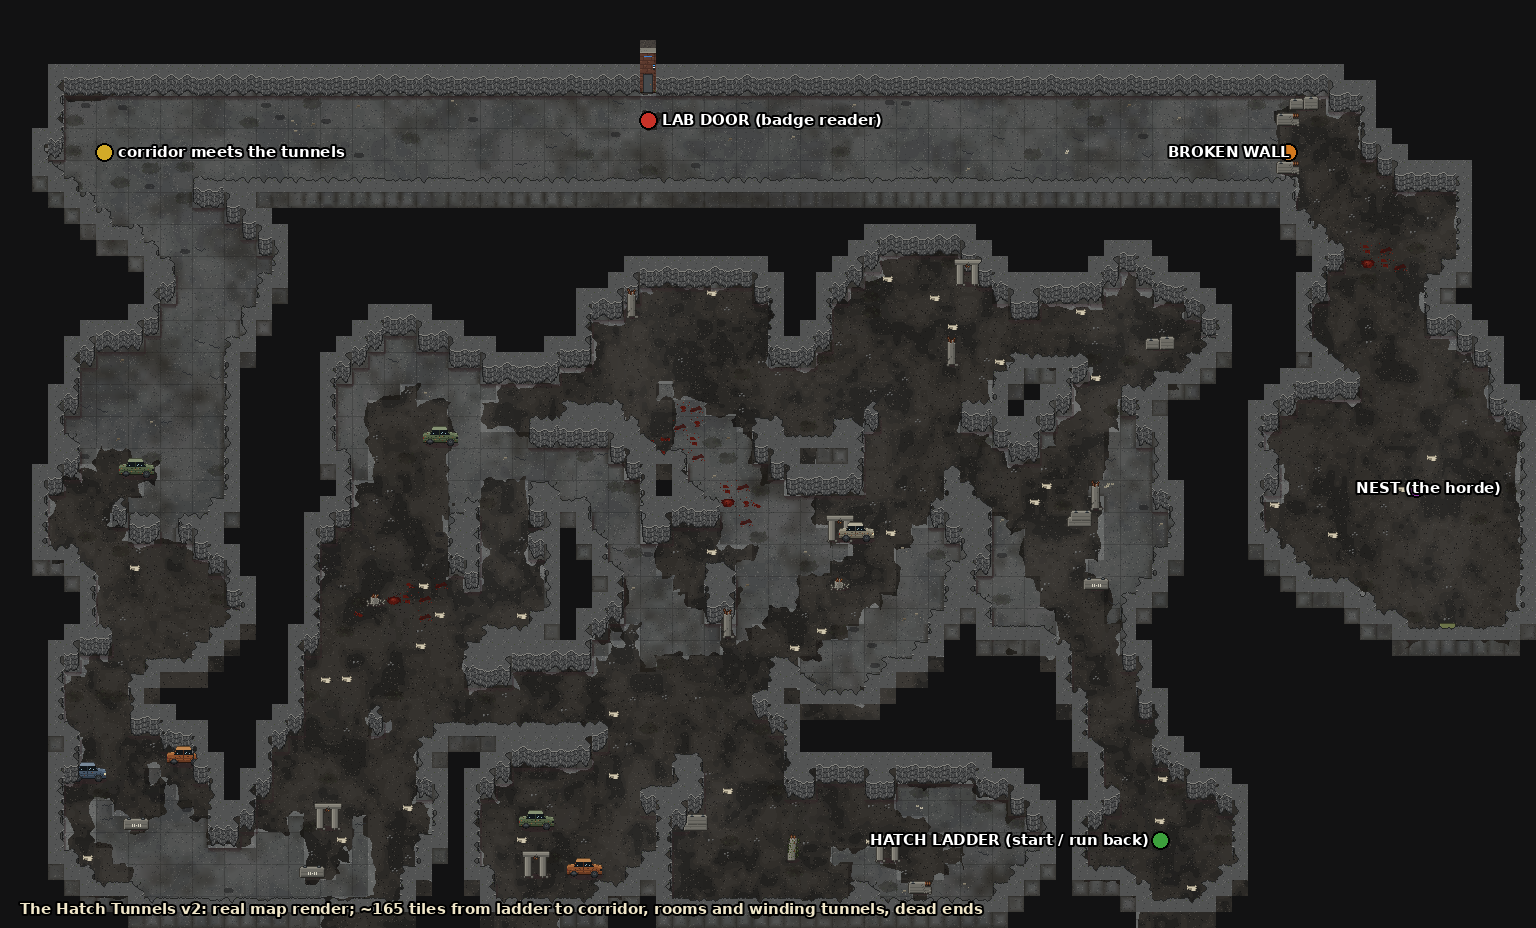
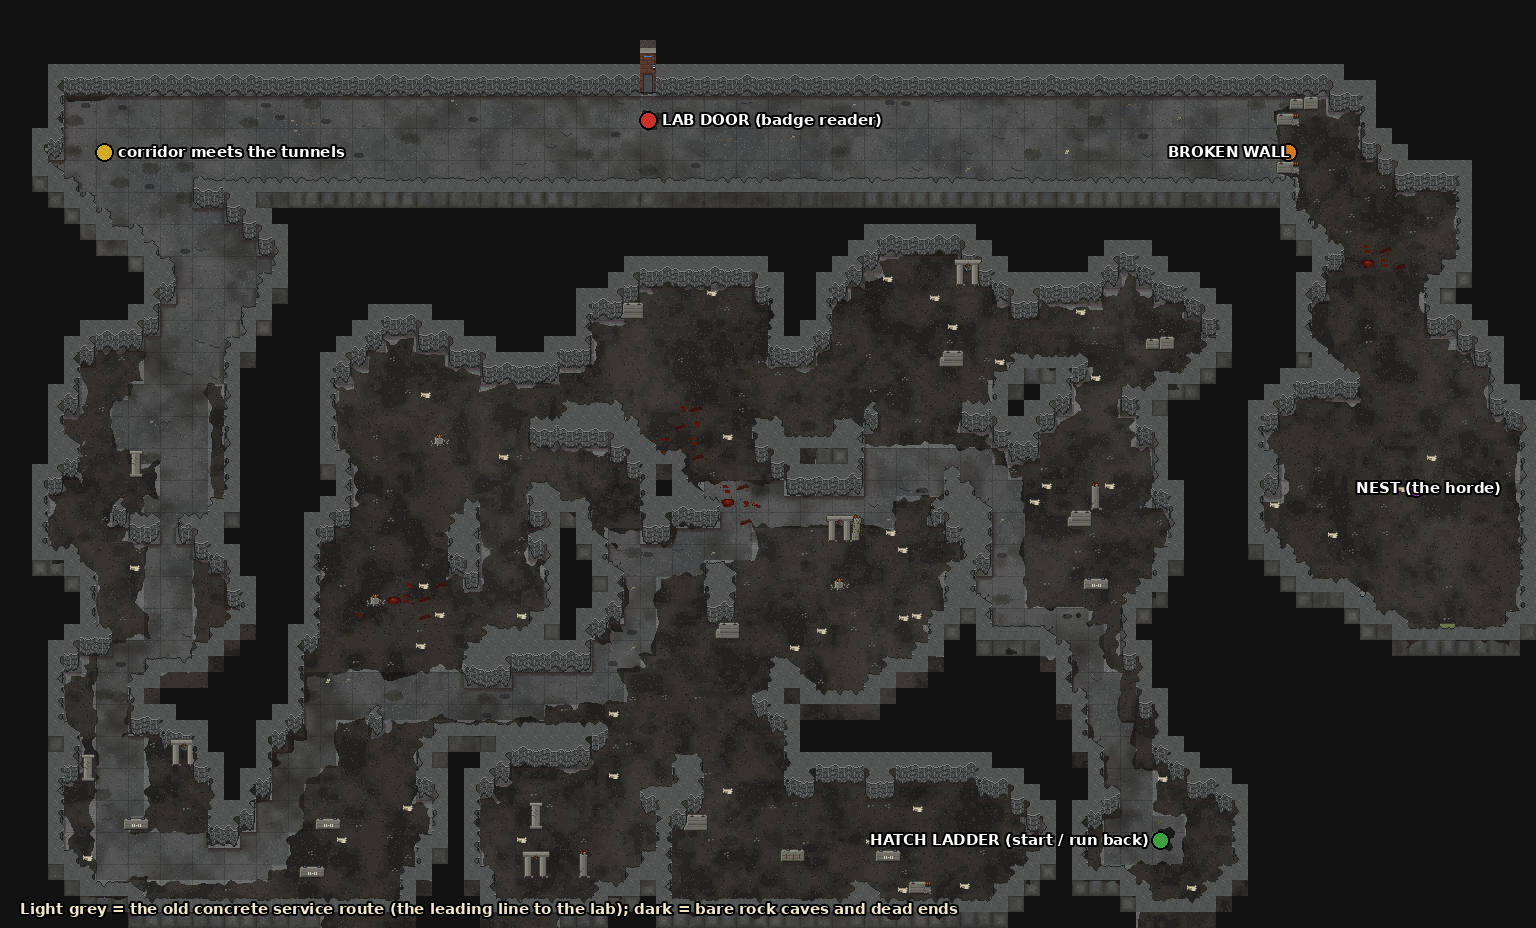
Taken: concrete service route as the guide, a hint, a second auto-save at the door
Claude-Session: https://claude.ai/code/session_01Jpd5tdDJTR7BVueAYV1KDM

diff --git a/Assets/Scripts/GameCore/TierDungeons.TakenPlan.cs b/Assets/Scripts/GameCore/TierDungeons.TakenPlan.cs
@@ -30,42 +30,42 @@ namespace GameCore
             "###########,,,,,########################.......######.........#######...###########......#######",
             "##########,,,,,,#######################h........####...........##.........########.......#######",
             "##########,,,,,######################...........####.......................#######.......#######",
-            "#########,,,,,,#########,,###########...........####....................h...######.........#####",
-            "######,,,,,,,,#########,,,,,#########...........###........h...............########.........####",
-            "#####,,,,,,,,,########,,,,,,,,#####............................#####......##########.........###",
-            "#####,,,,,,,,,#######,,,,.,,,,,..........,....................#####.....#############........###",
-            "#####,,,,,,,,,#######,,.....,,............,,..................#####...###########............###",
-            "####,,,,,,,,,,#######,,.....,,.....####...,,,,........#.....######....,#########..............##",
-            "####,,,,,,,,,,#######,,....+,,,,,#######..,,,,,##...##........###,...,,########................#",
-            "#####,..,,,,,,#######,,.....,,,,,,,,,,###.,,,,,#######.........##....,,,#######................#",
-            "#####...+.,,,,########,.....,,,,,,,,,,,####,,,,,######...............,,,########...............#",
-            "####.....,,,,,########......,,...,,,,,,,###,,,,,,#####.....#........,,,,########........H......#",
-            "###.....,,,,,,########......,,...##,,,,,####,,,,,,,........##.......+,,,#######................#",
-            "###....#,,,,,#########......,#...####,,,#####,,,,,,.......####,....h.,,,,######................#",
-            "###.....##,##########.......##....###,,,##...,,,,,,,++...,,###,,.....,,,,######................#",
-            "###.........########........##...#####,,,......,,,,,,...,,,,##,,.....,,,,#######...............#",
-            "#####........#######........##....####,,,.....,,,,,,....,,,,##,,....,,,,#########..............#",
-            "######........######.........#....#####,,,..##,,,,..+...,,,##,,,,...h,,,##########.............#",
-            "######........######...+..........#####,,,,.##,,,,.....,,,,##,,,,....,,##############..........#",
-            "######.........#####..............#####,,,,,##,,......,,,,,###,,,,...,################.........#",
-            "######........######.............#####,.,,,,,h,......,,,,,####,,,,....##################......##",
-            "#######......#######..........#######,..,,,,,......,,,,,,,########....##########################",
-            "#####.......#######..........########...,.........,,,,,,,##########...##########################",
-            "####.....##########..........###................##,,,,,############....#########################",
-            "####....###########.............................###,,,#############....#########################",
-            "####....###########............................#####################...#########################",
-            "####....###########....#........................####################....########################",
-            "#####.....########.........###########...........###################....########################",
-            "#####......+#####.........###########............####################...########################",
-            "#####+...,..#####.........######..........##.....####################....#######################",
-            "####......,..####.........#####...........##.....##...##,,,,,########.....######################",
-            "####..,...,,.###...........###..........####............,,,,,,,#######......####################",
-            "####..,,h,,,,###..,.h.,....###...+.......##h..............,,,,,,#####........###################",
-            "####..,,,,,,,##.,,,...,....###...........#.................,,,,,,###....E....###################",
-            "####...,,,,,,,,,,,,...,...####...........#.......h..,,,h....,,,,,###.........###################",
-            "#####...,,,,,,,,,,,h.,,...####...+..+...##...........,,,...,,,,,####.........###################",
-            "######..,,,,,,,,,,,,,,,..######........###...........,,,,h,,,,,########.....####################",
-            "#########,,,,,,,,,,,.....######......#####...........##,,,,,,,##########...#####################",
+            "#########,,,,,,#########..###########...........####....................h...######.........#####",
+            "######...,,,,,#########.....#########...........###........h...............########.........####",
+            "#####....,,,,,########........#####............................#####......##########.........###",
+            "#####...,,,,,.#######.........................................#####.....#############........###",
+            "#####..,,,,,,.#######.........................................#####...###########............###",
+            "####...,,,,,,.#######..............####...............#.....######.....#########..............##",
+            "####...,,,,,,.#######......+.....#######.......##...##........###......########................#",
+            "#####...,,,,,.#######.................###......#######,,,,,,,,.##.......#######................#",
+            "#####...+.,,,.########.................####.....######,,,,,,,,,.........########...............#",
+            "####......,,,.########..................###.,,,,,#####,,,,,#,,,,........########........H......#",
+            "###......,,,,.########...........##.....####,,,,,,,,,,,,...##,,,....+...#######................#",
+            "###....#.,,,,#########.......#...####...#####,,,,,,,,,,,..####,,...h.....######................#",
+            "###.....##,##########.......##....###.,,##,,,,,.....++.....###,,.........######................#",
+            "###......,,,########........##...#####,,,,,,,,,.............##,,.........#######...............#",
+            "#####....,,,.#######........##....####,,,,,,................##,,........#########..............#",
+            "######...,,,..######.........#....#####,,...##......+......##,,,....h...##########.............#",
+            "######...,,,..######...+..........#####,,...##.............##,,,.......##############..........#",
+            "######...,,,...#####..............#####,,...##.............###,,,,,,..################.........#",
+            "######...,,,..######.............#####,,,....h............####,,,,,,,.##################......##",
+            "#######,,,,,.#######..........#######,,,,.................########,,,.##########################",
+            "#####.,,,,,,#######..........########,,,.................##########,,.##########################",
+            "####..,,,##########,,,,,,,,,,###,,,,,,,.........##.....############,,,.#########################",
+            "####..,,###########,,,,,,,,,,,,,,,,,,,,.........###...#############,,,.#########################",
+            "####..,,###########,,,,,,,,,,,,,,,.............#####################,,.#########################",
+            "####..,,###########,,..#........................####################,,,.########################",
+            "#####.,,,.########,,,......###########...........###################,,,.########################",
+            "#####.,,,..+#####,,,,.....###########............####################,,.########################",
+            "#####+,,,...#####,,,......######..........##.....####################,,,.#######################",
+            "####..,,,....####,,.......#####...........##.....##...##.....########,,,..######################",
+            "####..,,,....###,,,........###..........####...................#######,,....####################",
+            "####..,,h....###,,,.h......###...+.......##h....................#####,,,,,...###################",
+            "####..,,,,,,,##,,,.........###...........#.......................###.,,,E,...###################",
+            "####..,,,,,,,,,,,,........####...........#.......h.....h.........###.,,,,,...###################",
+            "#####.,,,,,,,,,,,..h......####...+..+...##......................####.........###################",
+            "######...................######........###...............h.....########.....####################",
+            "#########................######......#####...........##.......##########...#####################",
             "################################################################################################",
         };
 

diff --git a/ArtSource/plans/taken_tunnels.py b/ArtSource/plans/taken_tunnels.py
@@ -46,7 +46,7 @@ def build(seed):
         tries += 1; p = (rnd.randint(8, 72), rnd.randint(18, 54))
         if all(math.hypot(p[0] - q[0], p[1] - q[1]) >= 12 for q in nodes): nodes.append(p)
     for i, (x, y) in enumerate(nodes):
-        concrete = rnd.random() < 0.35; r = rnd.uniform(3.2, 5.6) if i else 3.5
+        concrete = (rnd.random() < 0.35) and False; r = rnd.uniform(3.2, 5.6) if i else 3.5
         blob(x, y, r, ',' if concrete else '.')
     # --- a spanning tree (nearest-first from a random start order, so it winds), plus a few loops
     order = nodes[1:]; rnd.shuffle(order)                                # grow the tree in random order, each new room off one of its nearest neighbours: it winds and doubles back
@@ -57,7 +57,7 @@ def build(seed):
     for _ in range(int(os.environ.get('LOOPS', '1'))):
         a, b = rnd.sample(nodes, 2)
         if math.hypot(a[0] - b[0], a[1] - b[1]) < 30: edges.append((a, b))
-    for a, b in edges: tunnel(a, b, rnd.choice((3, 3, 4, 4, 5)), ',' if rnd.random() < 0.3 else '.')
+    for a, b in edges: tunnel(a, b, rnd.choice((3, 3, 4, 4, 5)), ',' if (rnd.random() < 0.3 and False) else '.')
     # the corridor's west end bends down into the nearest room to the north-west
     nw = min(nodes, key=lambda p: math.hypot(p[0] - 8, p[1] - 20))
     for y in range(6, 12):
@@ -72,6 +72,24 @@ def build(seed):
     for yy in range(ey - 1, ey + 2):
         for xx in range(ex - 1, ex + 2):
             if g[yy][xx] in '+h?': g[yy][xx] = '.'
+    rows = [''.join(r) for r in g]
+    # --- guidance without words (level-design skill: two independent cues per critical decision): the way to the lab was kept up - the old service route is concrete underfoot (',') where every
+    # side cave stays bare rock ('.'), a leading line from the ladder to the corridor. Painted from the shortest way, 3 wide.
+    wk = lambda c: c in '.,EFBH'
+    par = {ladder: None}; qq = deque([ladder])
+    while qq:
+        x, y = qq.popleft()
+        for dx, dy in ((1, 0), (-1, 0), (0, 1), (0, -1)):
+            n = (x + dx, y + dy)
+            if 0 <= n[0] < W and 0 <= n[1] < H and wk(rows[n[1]][n[0]]) and n not in par: par[n] = (x, y); qq.append(n)
+    cur = (6, 9)
+    while cur is not None and cur in par:
+        for yy in range(cur[1] - 1, cur[1] + 2):
+            for xx in range(cur[0] - 1, cur[0] + 2):
+                if g[yy][xx] == '.': g[yy][xx] = ','
+        cur = par[cur]
+    for yy in range(H):                                                    # side caves: nothing but rock floor (the dressing of the rooms stays)
+        pass
     rows = [''.join(r) for r in g]
     # a way from the ladder to the corridor's west end (BFS over walkable tiles)
     walk = lambda c: c in '.,EFB+h?H' and c not in '+h?'

diff --git a/Assets/Scripts/GameCore/Tier2Story.cs b/Assets/Scripts/GameCore/Tier2Story.cs
@@ -161,8 +161,17 @@ namespace GameCore
         static void SpawnEscorts()
         {
             Escorts.Clear(); NextStep.Clear();
-            var l = Mark(Ladder); if (l == null) return;
-            for (int i = 0; i < 5; i++) { var h = NewSoldier(l.X - 2 + i % 3, l.Y - 1 - i / 3, i == 0); Escorts.Add(h); EncounterState.Enemies.Add(h); }
+            var p = Player.Current; if (p == null) return;
+            var spots = Around(p.X, p.Y + 2, 5);                                           // round the player: at the ladder on the way down, at the door after the second auto-save
+            for (int i = 0; i < spots.Count; i++) { var h = NewSoldier(spots[i].x, spots[i].y, i == 0); Escorts.Add(h); EncounterState.Enemies.Add(h); }
+        }
+
+        /// <summary>Which way the lab door lies from the nearest player, as a word.</summary>
+        static string Bearing()
+        {
+            var d = Mark(Door); var p = Everyone.Where(x => x.IsAlive()).OrderBy(x => DistTo(x, Door)).FirstOrDefault(); if (d == null || p == null) return "ahead";
+            float dx = d.X - p.X, dy = d.Y - p.Y; string ns = dy < -6 ? "north" : dy > 6 ? "south" : "", ew = dx > 6 ? "east" : dx < -6 ? "west" : "";
+            return ns + (ns != "" && ew != "" ? "-" : "") + ew is string r && r != "" ? r : "close by";
         }
 
         static void Descent(float now)
@@ -177,10 +186,10 @@ namespace GameCore
             KeepDocile(); FollowPlayers(now, Mark(Door), 3.5f);
             if (GameOver(now)) return;
             float t = now - _descentAt;
-            if (!_warned1 && t > ShotAfter * 0.55f) { _warned1 = true; Say("\"Faster. Or I decide you don't know the way.\""); }
+            if (!_warned1 && t > ShotAfter * 0.55f) { _warned1 = true; Say("\"Faster. Or I decide you don't know the way.\""); Say($"The sergeant wets a finger. \"Draught from the {Bearing()}. And the floor - the old concrete. Someone kept this route up. Follow it.\""); }
             if (!_warned2 && t > ShotAfter * 0.85f) { _warned2 = true; Say("The sergeant's rifle clicks off safe."); }
             if (t > ShotAfter) { Say("\"Enough.\" A flat crack."); Hear("shot_rifle"); LoseAndReload(); return; }
-            if (Everyone.Any(p => p.IsAlive() && DistTo(p, Door) <= 4.5f)) StartAlarm(now);
+            if (Everyone.Any(p => p.IsAlive() && DistTo(p, Door) <= 4.5f)) { SaveSystem.Save(); StartAlarm(now); }   // a second auto-save: dying in the run starts at the door, not at the ladder (replay cost)
         }
 
         // ------------------------------------------------------------------ 3 -> 4: the door, the alarm, the horde

diff --git a/ArtSource/WORK_LOG.md b/ArtSource/WORK_LOG.md
@@ -6097,3 +6097,7 @@ Yan: the maze "doesn't feel natural ... a hard to navigate place, underground tu
 - **The door** is now the lab's badge-reader door (`'1'`, look `door_badge`: blue reader strip, "STAFF BADGE REQUIRED"); the story still triggers on walking within 4.5 tiles.
 - **The horde**: 8 big ones where the wall broke (4 Pallid + 4 Maw, released at 10 s) then three waves out of the tunnel at 12/15/18 s (12 rats; 12 rats + 3 Maw; 10 rats + 4 Pallid): 49 in all, `Tier2Story.SpawnHorde`. The soldiers charge toward the breach.
 - Harness: the check wants >= 44 in the horde (>= 30 rats). Stills: `maps/renders/taken/` (render + sprites, not Unity).
+
+## Taken: level-design pass (2026-11-16, /level-design skill)
+Checked the underground against the skill: metrics (`level_metrics.py`: one region, corridor ratio 0.09, only 6 dead-end CELLS: the rooms are big blobs, so it reads as caverns more than tunnels), guidance, fairness, replay cost.
+Fixed: (1) **guidance without words**: the shortest way ladder -> corridor is painted concrete (the old service route), every side cave is bare rock (`taken_tunnels.py`), plus the sergeant's hint at 55% of the timer ("draught from the north-west, follow the old concrete"); (2) **replay cost**: a second auto-save when the alarm is about to start (`Tier2Story.Descent`), so dying in the run restarts at the door, not the ladder; the escorts now spawn round the player on any load into the maze. Open: tighter tunnels (more corridor, more branching dead ends), a sound cue for the lab (hum), lights; the flee is long (~200 tiles) with no weapons - tune after a playtest. Not run in Unity.
